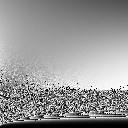
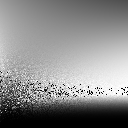
Finished Assignment4

Changed region(s): [[0.0, 0.4688, 1.0, 1.0]]

diff --git a/Assignment/Assignment4/homework4/src/engine.js b/Assignment/Assignment4/homework4/src/engine.js
@@ -97,7 +97,7 @@ async function GAMES202Main() {
 
 	let metallic = 1.0;
 	let Sphere0Transform = setTransform(180, 60, 0, 180, 180, 180, 0, Math.PI, 0);
-	//loadGLTF(renderer, 'assets/ball/', 'ball', 'KullaContyMaterial', Sphere0Transform, metallic, 0.15);
+	loadGLTF(renderer, 'assets/ball/', 'ball', 'KullaContyMaterial', Sphere0Transform, metallic, 0.15);
 	let Sphere1Transform = setTransform(100, 60, 0, 180, 180, 180, 0, Math.PI, 0);
 	loadGLTF(renderer, 'assets/ball/', 'ball', 'KullaContyMaterial', Sphere1Transform, metallic, 0.35);
 	let Sphere2Transform = setTransform(20, 60, 0, 180, 180, 180, 0, Math.PI, 0);
@@ -108,7 +108,7 @@ async function GAMES202Main() {
 	loadGLTF(renderer, 'assets/ball/', 'ball', 'KullaContyMaterial', Sphere4Transform, metallic, 0.95);
 
 	let Sphere5Transform = setTransform(180, -60, 0, 180, 180, 180, 0, Math.PI, 0);
-	//loadGLTF(renderer, 'assets/ball/', 'ball', 'PBRMaterial', Sphere5Transform, metallic, 0.15);
+	loadGLTF(renderer, 'assets/ball/', 'ball', 'PBRMaterial', Sphere5Transform, metallic, 0.15);
 	let Sphere6Transform = setTransform(100, -60, 0, 180, 180, 180, 0, Math.PI, 0);
 	loadGLTF(renderer, 'assets/ball/', 'ball', 'PBRMaterial', Sphere6Transform, metallic, 0.35);
 	let Sphere7Transform = setTransform(20, -60, 0, 180, 180, 180, 0, Math.PI, 0);

diff --git a/Assignment/Assignment3/src/engine.js b/Assignment/Assignment3/src/engine.js
@@ -28,7 +28,7 @@ function GAMES202Main() {
 	// Cube
 	cameraPosition = [6, 1, 0]
 	cameraTarget = [0, 0, 0]
-	 */
+	// */
 	// /*
 	// Cave
 	cameraPosition = [4.18927, 1.0313, 2.07331]

diff --git a/Assignment/Assignment4/lut-gen/Emu_IS.cpp b/Assignment/Assignment4/lut-gen/Emu_IS.cpp
@@ -25,25 +25,34 @@ Vec2f Hammersley(uint32_t i, uint32_t N) { // 0-1
 
 Vec3f ImportanceSampleGGX(Vec2f Xi, Vec3f N, float roughness) {
     float a = roughness * roughness;
-
     //TODO: in spherical space - Bonus 1
-
-
+    float phi = 2 * PI * Xi.y;
+    float theta = std::atan(a*std::sqrt(Xi.x)/ std::sqrt(1-Xi.x));
     //TODO: from spherical space to cartesian space - Bonus 1
- 
+    float z = std::cos(theta);
+    float x = std::sin(theta) * std::cos(phi);
+    float y = std::sin(theta) * std::sin(phi);
 
     //TODO: tangent coordinates - Bonus 1
-
+    Vec3f up = N.z < 0.99f ? Vec3f(0.0f, 0.0f, 1.0f) : Vec3f(1.0f, 0.0f, 0.0f);
+    Vec3f tangent = normalize(cross(up, N));
+    Vec3f bitangent = cross(N, tangent);
 
     //TODO: transform H to tangent space - Bonus 1
+    Vec3f H = normalize(tangent * x +bitangent * y + N * z);
     
-    return Vec3f(1.0f);
+    return H;
 }
 
 float GeometrySchlickGGX(float NdotV, float roughness) {
     // TODO: To calculate Schlick G1 here - Bonus 1
-    
-    return 1.0f;
+    float a = roughness;
+    float k = (a * a) / 2.0f;
+
+    float nom = NdotV;
+    float denom = NdotV * (1.0f - k) + k;
+
+    return nom / denom;
 }
 
 float GeometrySmith(float roughness, float NoV, float NoL) {
@@ -56,6 +65,7 @@ float GeometrySmith(float roughness, float NoV, float NoL) {
 Vec3f IntegrateBRDF(Vec3f V, float roughness) {
 
     const int sample_count = 1024;
+    float color_Val = 0.0f;
     Vec3f N = Vec3f(0.0, 0.0, 1.0);
     for (int i = 0; i < sample_count; i++) {
         Vec2f Xi = Hammersley(i, sample_count);
@@ -68,13 +78,15 @@ Vec3f IntegrateBRDF(Vec3f V, float roughness) {
         float NoV = std::max(dot(N, V), 0.0f);
         
         // TODO: To calculate (fr * ni) / p_o here - Bonus 1
-
+        float G = GeometrySmith(roughness, NoV, NoL);
+        color_Val += VoH*G/(NoV * NoH);
 
         // Split Sum - Bonus 2
         
     }
+    color_Val /= sample_count;
 
-    return Vec3f(1.0f);
+    return Vec3f(1-color_Val);
 }
 
 int main() {
@@ -93,8 +105,8 @@ int main() {
             data[(i * resolution + j) * 3 + 2] = uint8_t(irr.z * 255.0);
         }
     }
-    stbi_flip_vertically_on_write(true);
-    stbi_write_png("GGX_E_LUT.png", resolution, resolution, 3, data, resolution * 3);
+    stbi_flip_vertically_on_write(false);
+    stbi_write_png("GGX_E_oneMmu_LUT.png", resolution, resolution, 3, data, resolution * 3);
     
     std::cout << "Finished precomputed!" << std::endl;
     return 0;

diff --git a/Assignment/Assignment4/lut-gen/Eavg_IS.cpp b/Assignment/Assignment4/lut-gen/Eavg_IS.cpp
@@ -28,10 +28,23 @@ Vec2f Hammersley(uint32_t i, uint32_t N) {
 Vec3f ImportanceSampleGGX(Vec2f Xi, Vec3f N, float roughness) {
 
     float a = roughness * roughness;
+    //TODO: in spherical space - Bonus 1
+    float phi = 2 * PI * Xi.y;
+    float theta = std::atan(a*std::sqrt(Xi.x)/ std::sqrt(1-Xi.x));
+    //TODO: from spherical space to cartesian space - Bonus 1
+    float z = std::cos(theta);
+    float x = std::sin(theta) * std::cos(phi);
+    float y = std::sin(theta) * std::sin(phi);
 
-    // TODO: Copy the code from your previous work - Bonus 1
+    //TODO: tangent coordinates - Bonus 1
+    Vec3f up = N.z < 0.99f ? Vec3f(0.0f, 0.0f, 1.0f) : Vec3f(1.0f, 0.0f, 0.0f);
+    Vec3f tangent = normalize(cross(up, N));
+    Vec3f bitangent = cross(N, tangent);
 
-    return Vec3f(1.0f);
+    //TODO: transform H to tangent space - Bonus 1
+    Vec3f H = normalize(tangent * x +bitangent * y + N * z);
+    
+    return H;
 }
 
 
@@ -52,10 +65,11 @@ Vec3f IntegrateEmu(Vec3f V, float roughness, float NdotV, Vec3f Ei) {
         float NoV = std::max(dot(N, V), 0.0f);
 
         // TODO: To calculate Eavg here - Bonus 1
+        Eavg += Ei * 2.0 * NoV;
         
     }
 
-    return Vec3f(1.0);
+    return Eavg / sample_count;
 }
 
 void setRGB(int x, int y, float alpha, unsigned char *data) {
@@ -90,7 +104,7 @@ int main() {
         // | 
         // | rough（i）
         // Flip it, if you want the data written to the texture
-        uint8_t data[resolution * resolution * 3];
+        uint8_t* data = new uint8_t[resolution * resolution * 3];
         float step = 1.0 / resolution;
         Vec3f Eavg = Vec3f(0.0);
 		for (int i = 0; i < resolution; i++) 

diff --git a/Assignment/Assignment4/lut-gen/Emu_MC.cpp b/Assignment/Assignment4/lut-gen/Emu_MC.cpp
@@ -31,7 +31,7 @@ samplePoints squareToCosineHemisphere(int sample_count){
             double sampley = (p + rng(gen)) / sample_side;
             
             double theta = 0.5f * acos(1 - 2*samplex);
-            double phi =  2 * M_PI * sampley;
+            double phi =  2 * PI * sampley;
             Vec3f wi = Vec3f(sin(theta) * cos(phi), sin(theta) * sin(phi), cos(theta));
             float pdf = wi.z / PI;
             
@@ -79,11 +79,20 @@ Vec3f IntegrateBRDF(Vec3f V, float roughness, float NdotV) {
     float C = 0.0;
     const int sample_count = 1024;
     Vec3f N = Vec3f(0.0, 0.0, 1.0);
+    Vec3f wo = normalize(V);
     
     samplePoints sampleList = squareToCosineHemisphere(sample_count);
     for (int i = 0; i < sample_count; i++) {
       // TODO: To calculate (fr * ni) / p_o here
-      
+      Vec3f wi = normalize(sampleList.directions[i]);
+      Vec3f H = normalize(wi+wo);
+      float NdotL = std::max(dot(wi, N), 0.0f);
+
+      float D = DistributionGGX(N, H, roughness);
+      float G = GeometrySmith(roughness, NdotV, NdotL);
+      float F = 1.0f;
+
+      A = B = C += D*G*F / (4*NdotL*NdotV) * NdotL / sampleList.PDFs[i];
     }
 
     return {A / sample_count, B / sample_count, C / sample_count};

diff --git a/Assignment/Assignment4/lut-gen/Eavg_MC.cpp b/Assignment/Assignment4/lut-gen/Eavg_MC.cpp
@@ -46,7 +46,7 @@ samplePoints squareToCosineHemisphere(int sample_count){
             double sampley = (p + rng(gen)) / sample_side;
             
             double theta = 0.5f * acos(1 - 2*samplex);
-            double phi =  2 * M_PI * sampley;
+            double phi =  2 * PI * sampley;
             Vec3f wi = Vec3f(sin(theta) * cos(phi), sin(theta) * sin(phi), cos(theta));
             float pdf = wi.z / PI;
             
@@ -100,7 +100,7 @@ int main() {
         // | 
         // | rough（i）
         // flip it if you want to write the data on picture 
-        uint8_t data[resolution * resolution * 3];
+        uint8_t* data = new uint8_t[resolution * resolution * 3];
         float step = 1.0 / resolution;
         Vec3f Eavg = Vec3f(0.0);
 		for (int i = 0; i < resolution; i++) 
